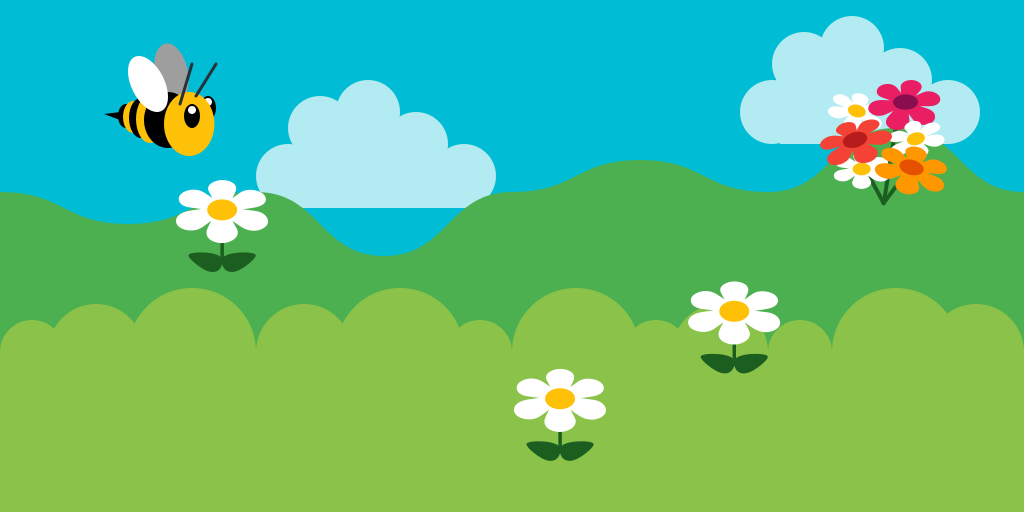
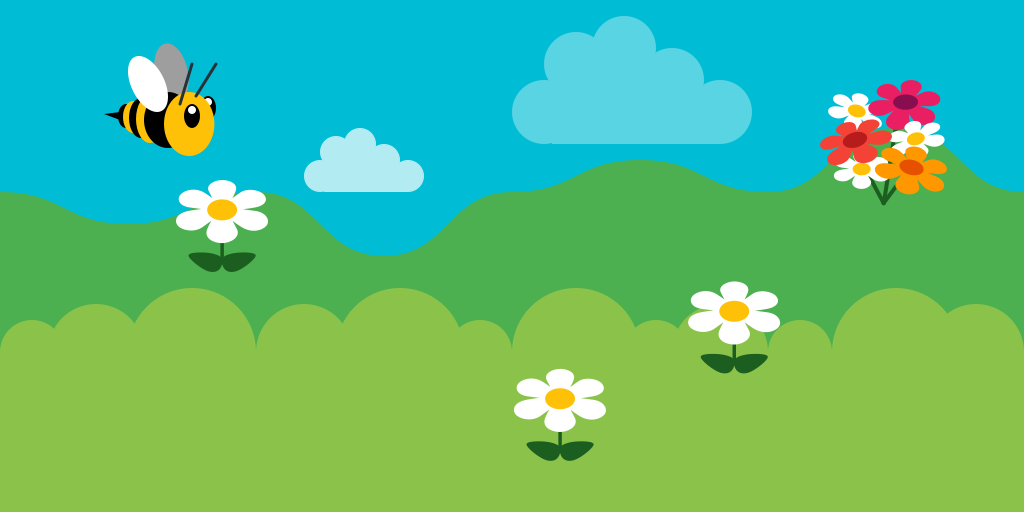
Updated game image

Changed region(s): [[0.5, 0.0312, 0.9688, 0.2812], [0.25, 0.1562, 0.5, 0.4062]]

diff --git a/www/js/calvin-game.js b/www/js/calvin-game.js
@@ -102,7 +102,7 @@ Game.prototype._initialise = function() {
         bitmap.setTransform(
             Math.random() * (this.stageWidth - bitmap.image.width),
             Math.random() * (this.stageHeight / 2 - bitmap.image.height),
-            1, 1);
+            1 - i / 2, 1 - i / 2);
         bitmap.width = bitmap.image.width;
         bitmap.height = bitmap.image.height;
         bitmap.alpha = 0.5 +  i / 2;
@@ -205,9 +205,7 @@ Game.prototype.tick = function(event) {
         item = this.cast.preForegroundItems[i];
         item.x = item.x - deltaX * 20;
         if (item.x + item.width <= 0) {
-            console.log(item.x)
             item.x = item.x + (this.cast.preForegroundItems.length) * item.width;
-            console.log(item.x)
             j = Math.floor(Math.random() * 4) + 1;
             item.gotoAndPlay("frame" + j);
         }
